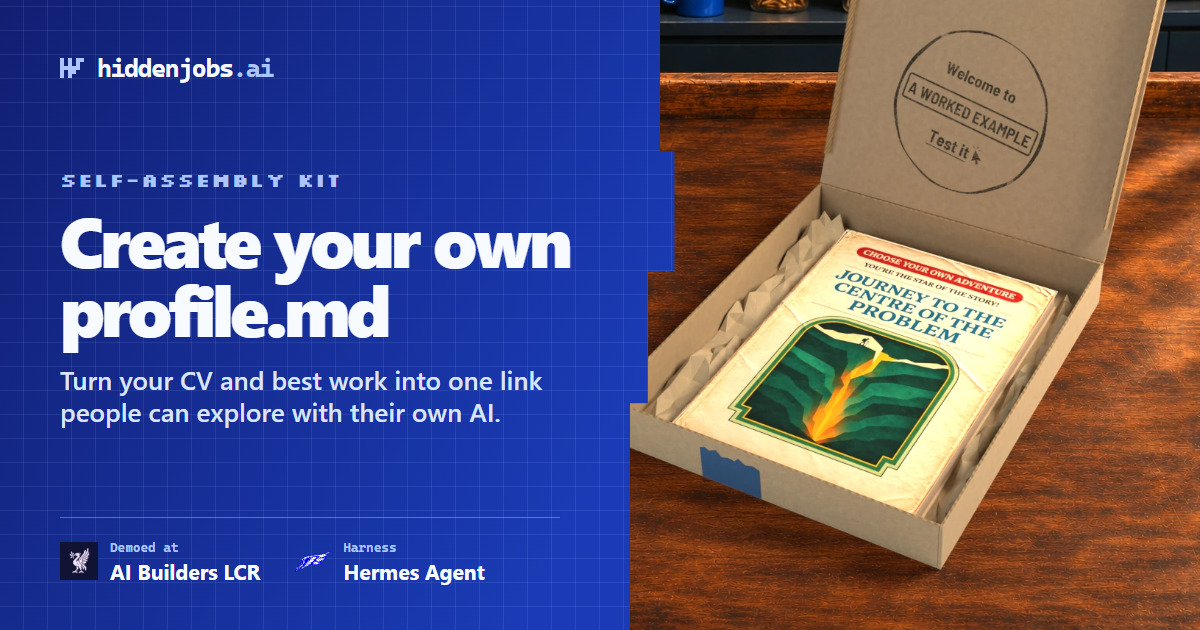
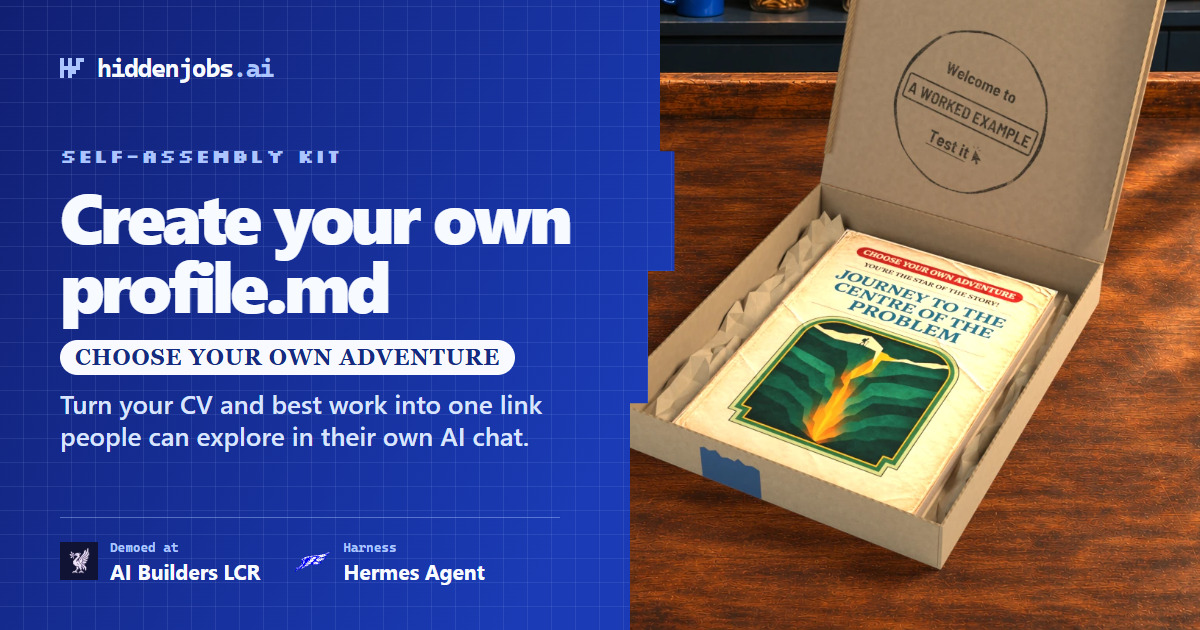
Add the Choose Your Own Adventure wordmark to the share card

Changed region(s): [[0.0308, 0.2413, 0.4933, 0.7238]]

diff --git a/profile-md/index.html b/profile-md/index.html
@@ -9,16 +9,16 @@
   <meta property="og:type" content="website">
   <meta property="og:site_name" content="Hidden Jobs">
   <meta property="og:title" content="Create your own profile.md">
-  <meta property="og:description" content="Turn your CV and best work into one link people can explore with their own AI.">
+  <meta property="og:description" content="A Choose Your Own Adventure for your CV and best work. One link people can explore in their own AI chat.">
   <meta property="og:url" content="https://benohanlon.github.io/hiddenjobs-ai/profile-md/">
-  <meta property="og:image" content="https://benohanlon.github.io/hiddenjobs-ai/assets/profile-md-share.jpg">
+  <meta property="og:image" content="https://benohanlon.github.io/hiddenjobs-ai/assets/profile-md-share.jpg?v=cyoa">
   <meta property="og:image:type" content="image/jpeg">
   <meta property="og:image:width" content="1200">
   <meta property="og:image:height" content="630">
-  <meta property="og:image:alt" content="Create your own profile.md. An open book mailer sits beside the AI Builders LCR and Hermes Agent logos.">
+  <meta property="og:image:alt" content="Create your own profile.md. A Choose Your Own Adventure for your CV and best work. An open book mailer sits beside the AI Builders LCR and Hermes Agent logos.">
   <meta name="twitter:card" content="summary_large_image">
-  <meta name="twitter:image" content="https://benohanlon.github.io/hiddenjobs-ai/assets/profile-md-share.jpg">
-  <meta name="twitter:image:alt" content="Create your own profile.md. An open book mailer sits beside the AI Builders LCR and Hermes Agent logos.">
+  <meta name="twitter:image" content="https://benohanlon.github.io/hiddenjobs-ai/assets/profile-md-share.jpg?v=cyoa">
+  <meta name="twitter:image:alt" content="Create your own profile.md. A Choose Your Own Adventure for your CV and best work. An open book mailer sits beside the AI Builders LCR and Hermes Agent logos.">
   <link rel="stylesheet" href="../assets/site.css">
   <script src="../assets/profile.js" defer></script>
   <title>Create your own CYOA profile.md | Hidden Jobs</title>

diff --git a/index.html b/index.html
@@ -9,16 +9,16 @@
   <meta property="og:type" content="website">
   <meta property="og:site_name" content="Hidden Jobs">
   <meta property="og:title" content="Create your own profile.md">
-  <meta property="og:description" content="Turn your CV and best work into one link people can explore with their own AI.">
+  <meta property="og:description" content="A Choose Your Own Adventure for your CV and best work. One link people can explore in their own AI chat.">
   <meta property="og:url" content="https://benohanlon.github.io/hiddenjobs-ai/profile-md/">
-  <meta property="og:image" content="https://benohanlon.github.io/hiddenjobs-ai/assets/profile-md-share.jpg">
+  <meta property="og:image" content="https://benohanlon.github.io/hiddenjobs-ai/assets/profile-md-share.jpg?v=cyoa">
   <meta property="og:image:type" content="image/jpeg">
   <meta property="og:image:width" content="1200">
   <meta property="og:image:height" content="630">
-  <meta property="og:image:alt" content="Create your own profile.md. An open book mailer sits beside the AI Builders LCR and Hermes Agent logos.">
+  <meta property="og:image:alt" content="Create your own profile.md. A Choose Your Own Adventure for your CV and best work. An open book mailer sits beside the AI Builders LCR and Hermes Agent logos.">
   <meta name="twitter:card" content="summary_large_image">
-  <meta name="twitter:image" content="https://benohanlon.github.io/hiddenjobs-ai/assets/profile-md-share.jpg">
-  <meta name="twitter:image:alt" content="Create your own profile.md. An open book mailer sits beside the AI Builders LCR and Hermes Agent logos.">
+  <meta name="twitter:image" content="https://benohanlon.github.io/hiddenjobs-ai/assets/profile-md-share.jpg?v=cyoa">
+  <meta name="twitter:image:alt" content="Create your own profile.md. A Choose Your Own Adventure for your CV and best work. An open book mailer sits beside the AI Builders LCR and Hermes Agent logos.">
   <title>Hidden Jobs</title>
 </head>
 <body>
